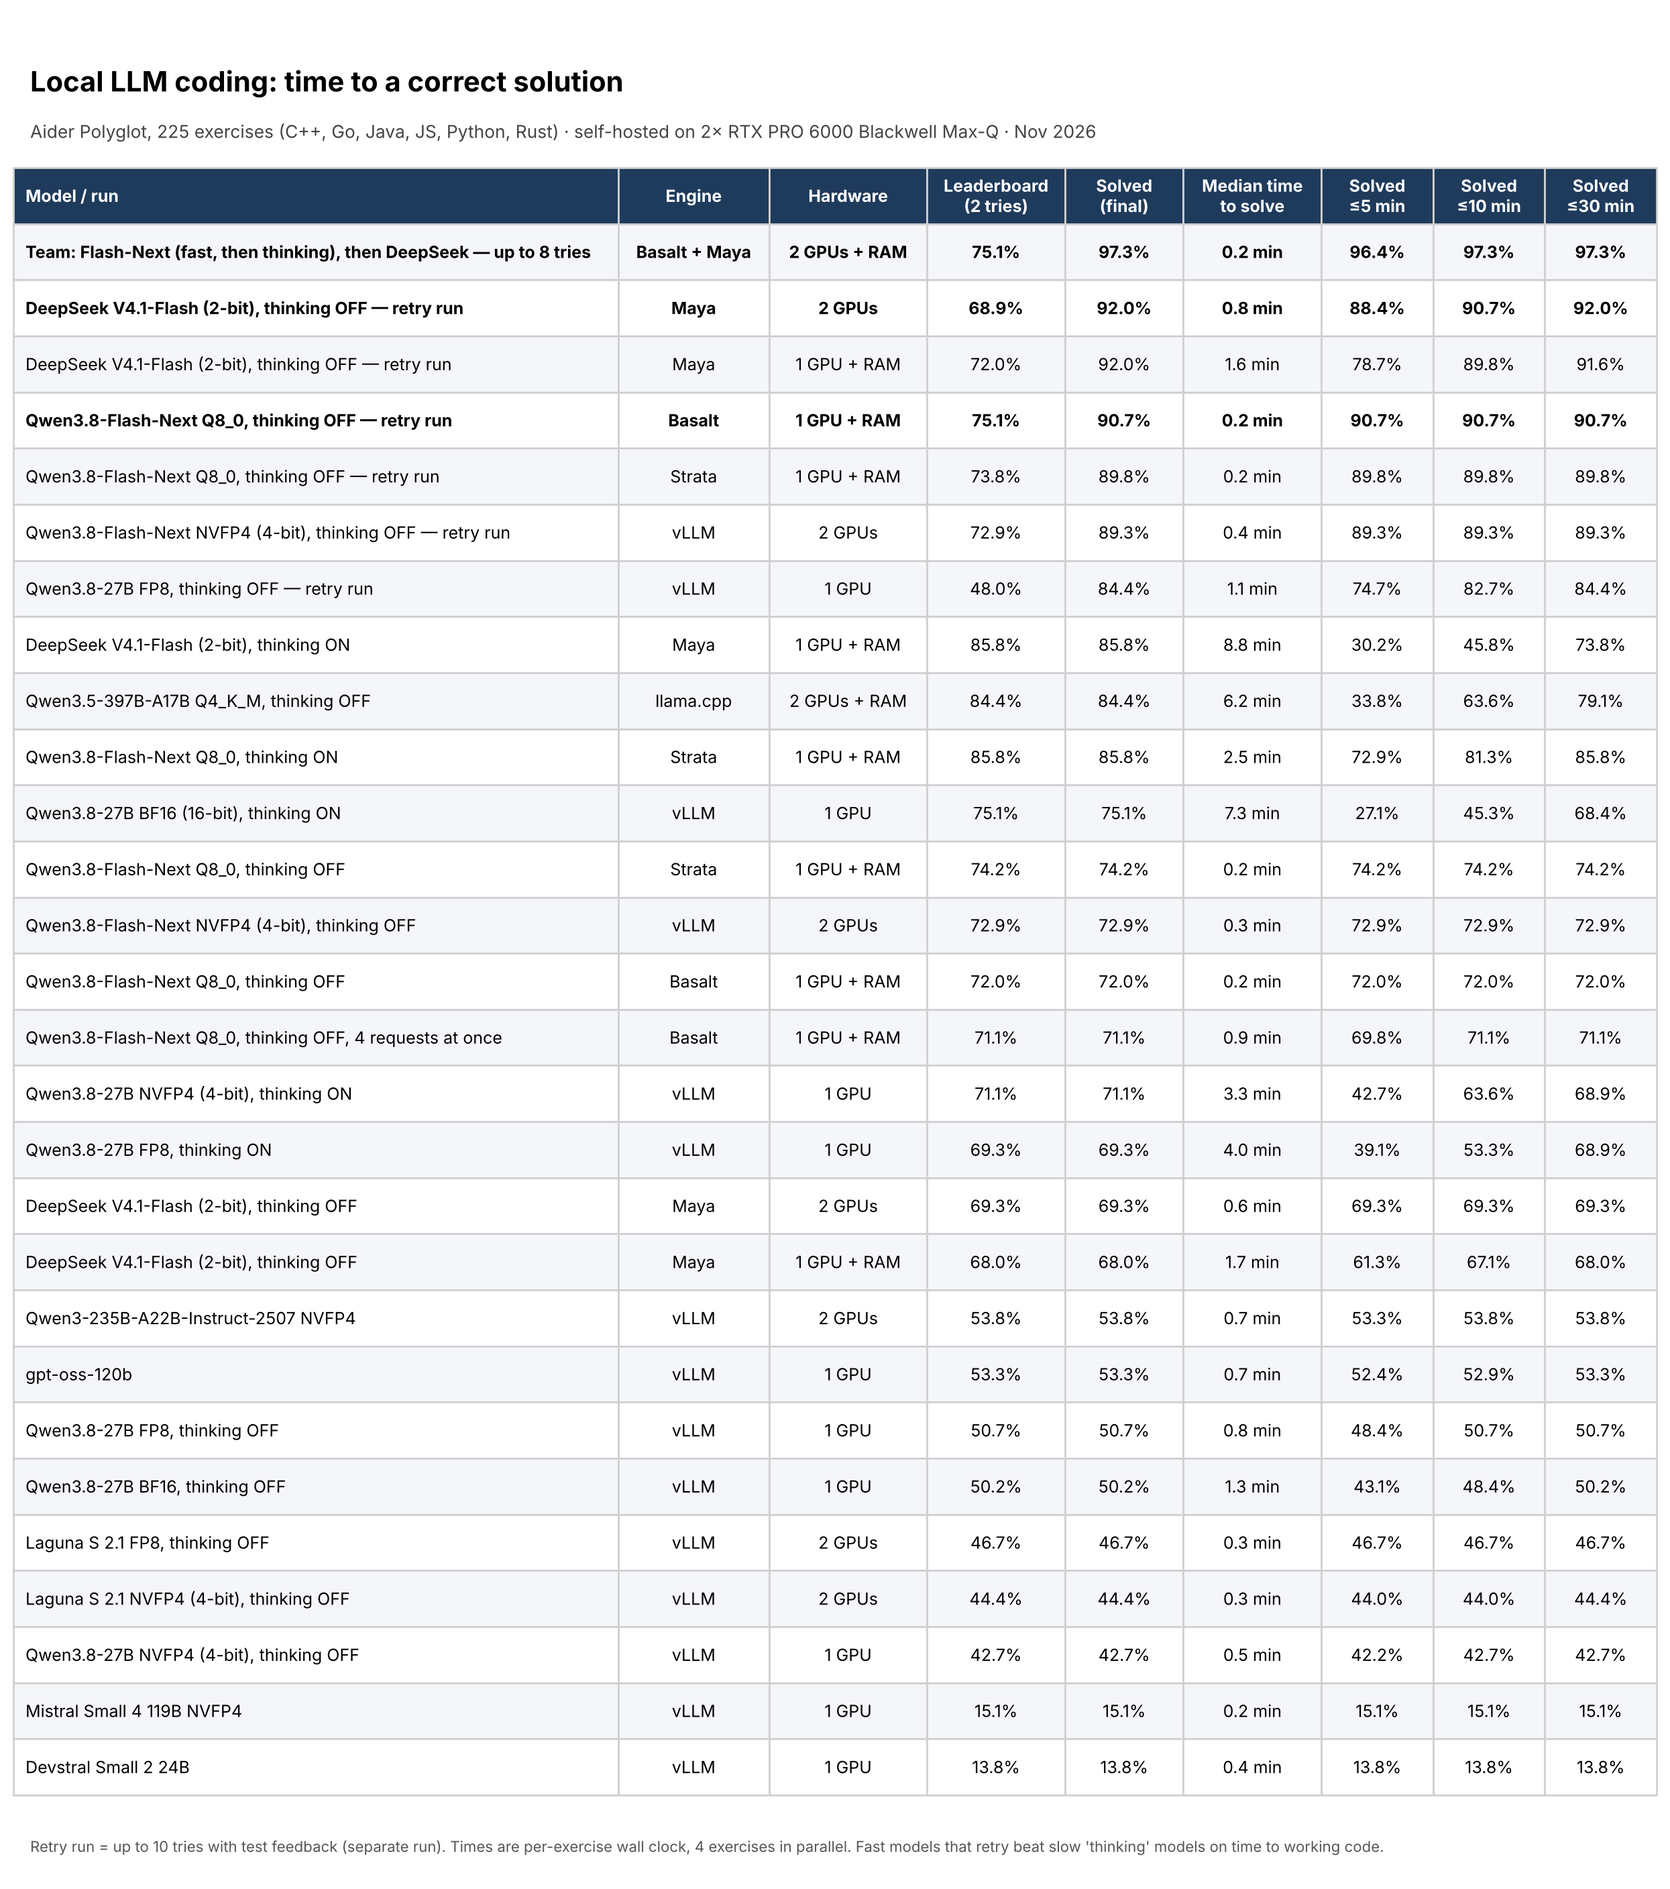
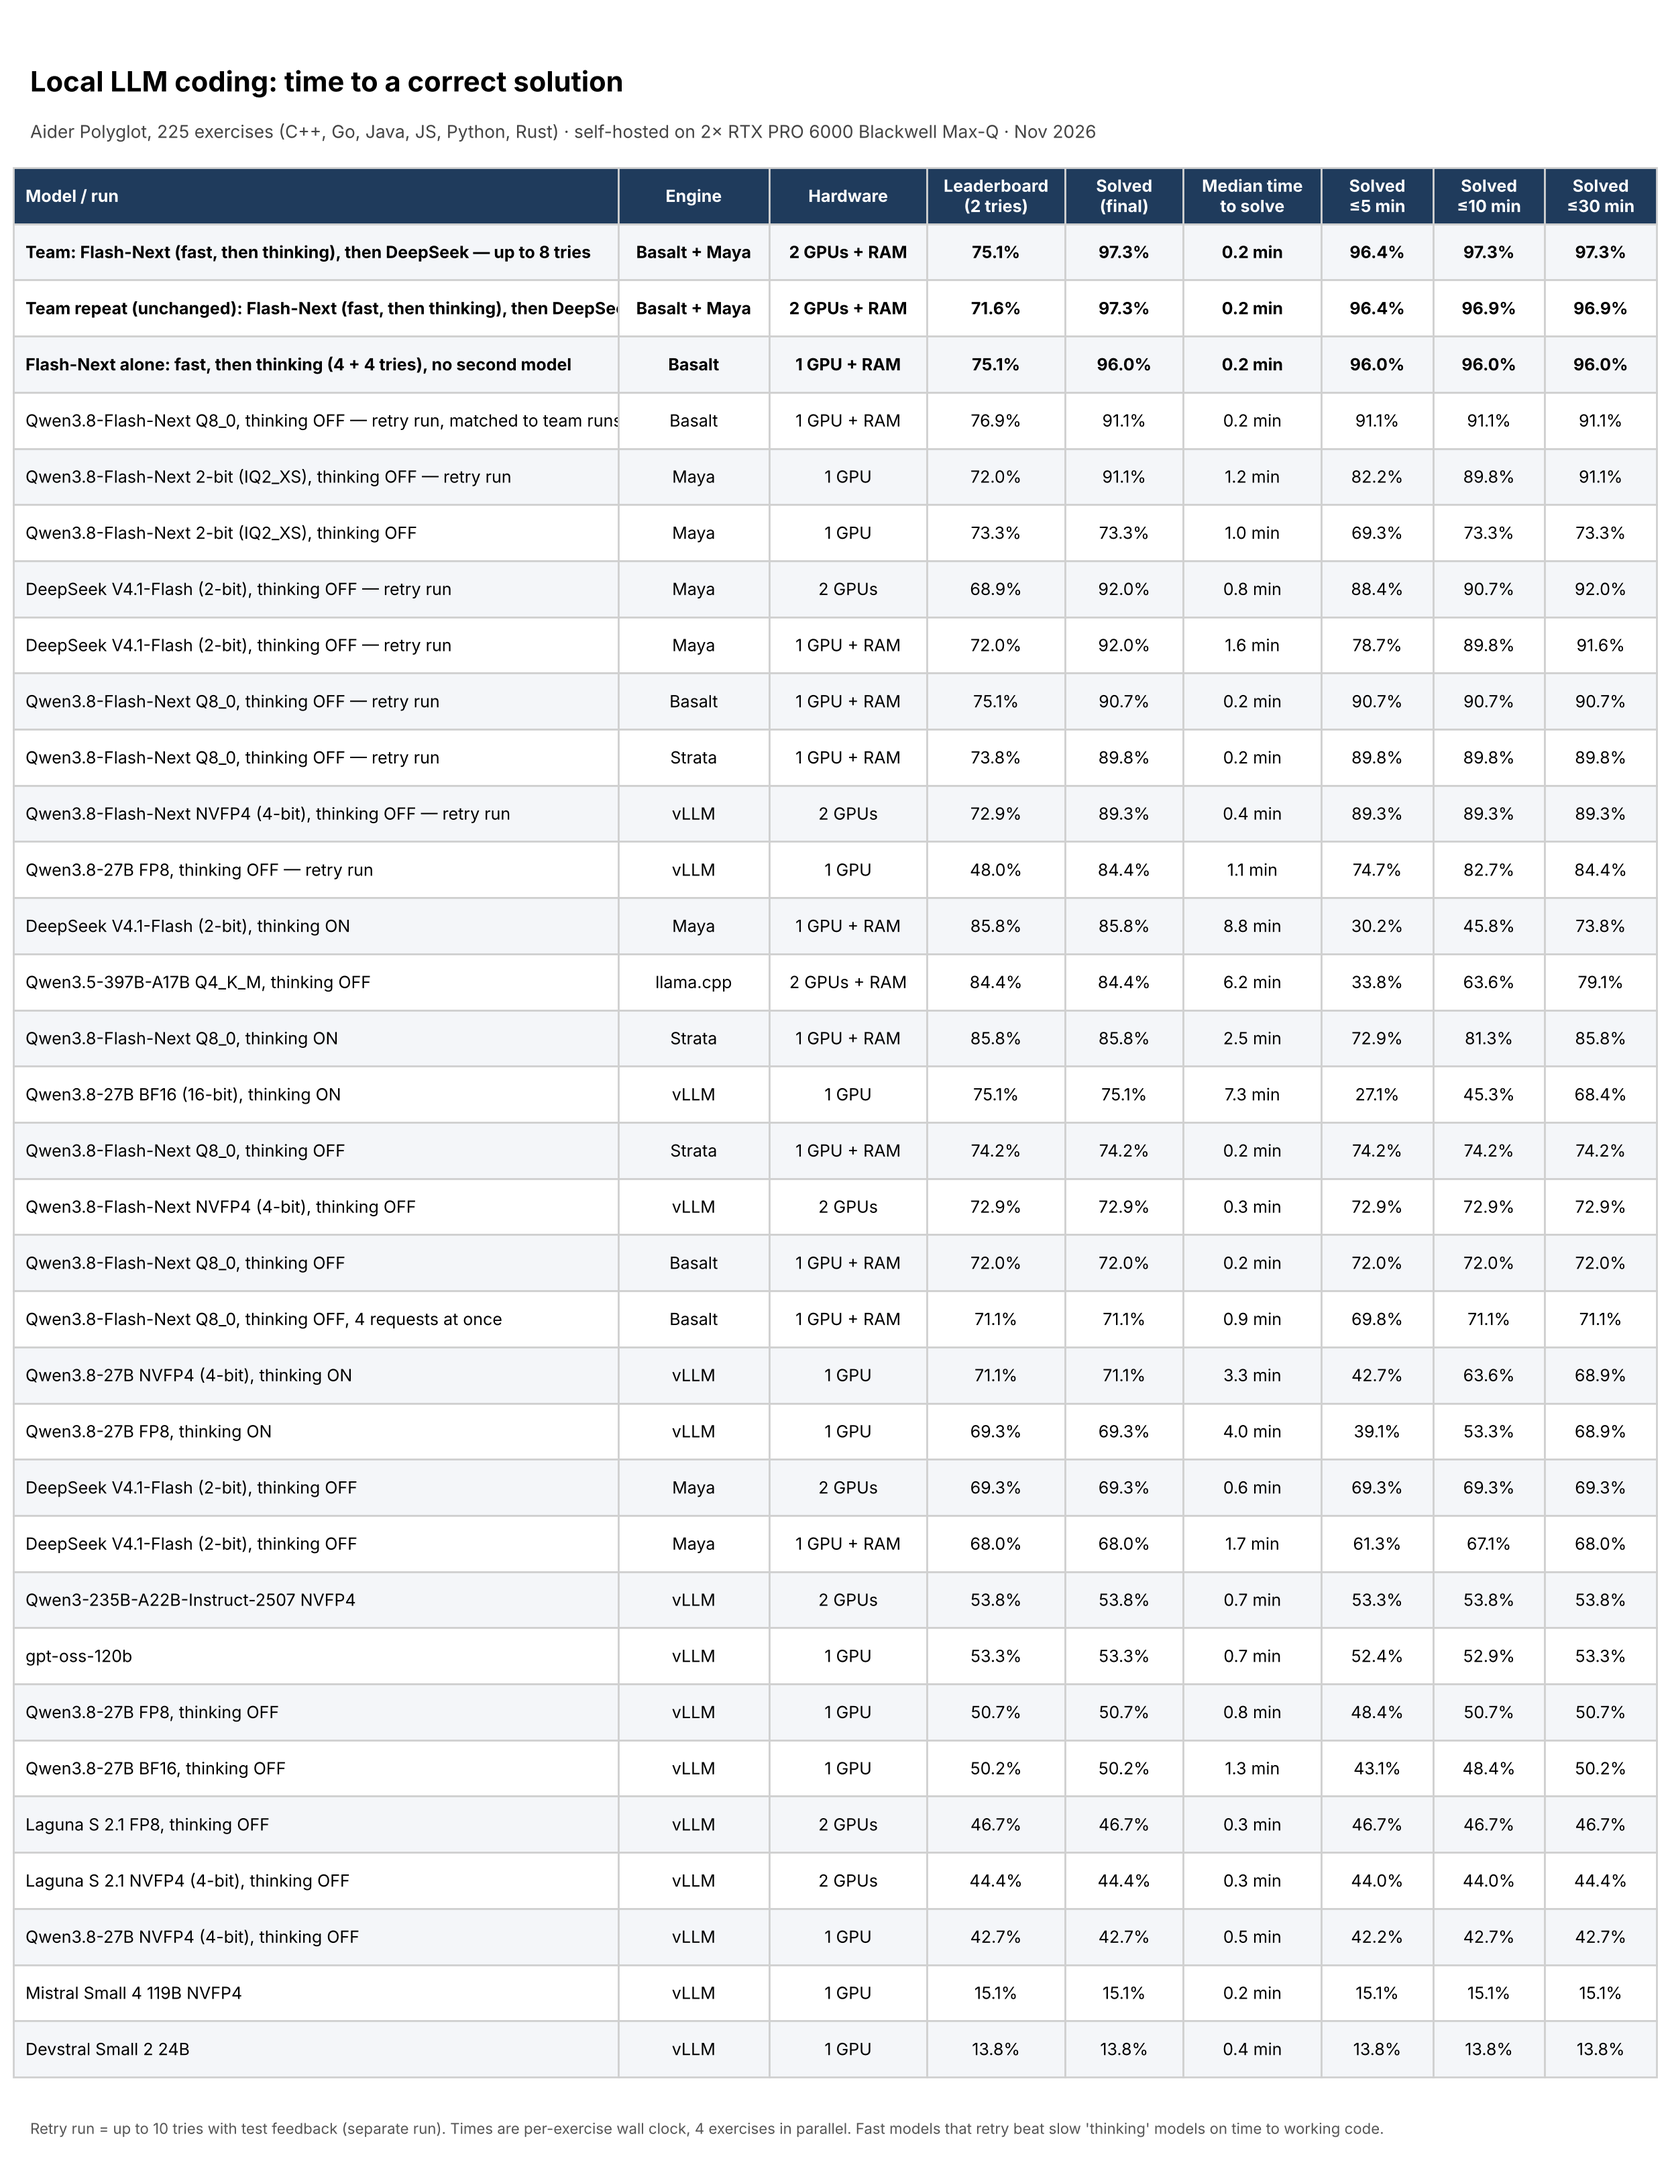
Add matched baseline (205), no-second-model run (216), team repeat row, Maya 2-bit runs; paired tests
Claude-Session: https://claude.ai/code/session_018R7iyJnoVuwkx4FCCYAWj6

diff --git a/articles/stop-optimizing-a-model.md b/articles/stop-optimizing-a-model.md
@@ -2,7 +2,7 @@
 
 *Brian K. Hudes, MD · AiMOS Systems · 24 November 2026*
 
-*Preliminary. Two full runs of the cascade (the second an unchanged repeat, added 24 November). The matched baselines are listed at the end. Technical companion to "Stop Optimizing a Model. Solve the Problem."*
+*Preliminary. Two full runs of the cascade (the second an unchanged repeat, added 24 November). A matched single-model baseline and a run without the second model were added the same day (see Matched baseline and ablation). Technical companion to "Stop Optimizing a Model. Solve the Problem."*
 
 ## Summary
 
@@ -137,6 +137,46 @@ What held and what did not:
 - **The second thinking try did not hold.** It solved 7 of 15 in run 1 and 2 of 13 in the repeat. The first thinking try carries most of the benefit.
 - **DeepSeek's share rose from 2 to 5.** Thinking mode plus the second model solved 22 in run 1 and 19 in the repeat, but the split between them moved. The evidence for a separate benefit from the second model is still thin; the run without DeepSeek, now in progress, addresses it.
 
+## Matched baseline and ablation
+
+Two further runs, both with the cascade's exact settings (chat-history summaries off, 1 thread, same harness, same Basalt server):
+
+- **Matched baseline:** Flash-Next alone, thinking off, up to 10 tries.
+- **No second model:** Flash-Next with four fast tries, then four thinking tries. DeepSeek is not used.
+
+| Measure | Cascade, run 1 | Cascade, run 2 | No second model (4 fast + 4 thinking) | Matched baseline (10 fast) |
+|---|---|---|---|---|
+| Solved | 219 (97.3%) | 219 (97.3%) | 216 (96.0%) | 205 (91.1%) |
+| Solved within 2 tries | 75.1% | 71.6% | 75.1% | 76.9% |
+| Median time to solve | 11.5 s | 12.8 s | 10.9 s | 10.3 s |
+| Mean / 90th percentile | 32.1 / 81.6 s | 39.8 / 56.9 s | 27.0 / 68.4 s | 17.5 / 37.0 s |
+| Wall clock | 3 h 39 min | 3 h 26 min | 2 h 33 min | 2 h 07 min |
+| GPUs used | 2 | 2 | 1 | 1 |
+
+Solved at each try:
+
+| Run | 1 | 2 | 3 | 4 | 5 | 6 | 7 | 8 | 9-10 |
+|---|---|---|---|---|---|---|---|---|---|
+| Matched baseline (all fast) | 90 | 83 | 23 | 2 | 4 | 2 | 0 | 1 | 0 |
+| No second model (thinking from try 5) | 85 | 84 | 22 | 10 | 9 | 5 | 1 | 0 | - |
+
+Paired per-exercise outcomes (exact McNemar test on the discordant pairs):
+
+| Comparison | Solved only by first | Solved only by second | p |
+|---|---|---|---|
+| Cascade run 1 vs matched baseline | 14 | 0 | 0.0001 |
+| Cascade run 2 vs matched baseline | 15 | 1 | 0.0005 |
+| No second model vs matched baseline | 15 | 4 | 0.019 |
+| Cascade run 1 vs no second model | 5 | 2 | 0.45 |
+| Cascade run 2 vs no second model | 6 | 3 | 0.51 |
+
+What this settles and what it does not:
+
+- **The gain survives matched settings.** With identical settings the single model solved 205 and the cascade 219 in both runs. After four fast tries the baseline had 198 solved and 27 open; six more fast tries solved 7 of them. In the no-second-model run, 201 were solved after four fast tries and four thinking tries solved 15 of the remaining 24.
+- **The cascade is not faster on the typical exercise.** The matched baseline has the lowest median (10.3 s). Escalation buys solve rate, at the cost of a longer tail and a longer run.
+- **Most of the gain needs only one model.** Switching Flash-Next to thinking mode, with no second model and one GPU, reached 216. The two cascade runs reached 219. The paired difference between them (5 vs 2, and 6 vs 3) is not distinguishable from run-to-run variation, which changed 4 outcomes between two identical cascade runs.
+- **A second model may still add a little.** Both cascade runs finished 3 above the single-model run, and DeepSeek solved 2 and 5 exercises that had survived six attempts. Three runs are not enough to tell a small real effect from noise. It costs a second GPU and about an hour per run.
+
 ## Where the gain comes from
 
 **Fast retries stop paying.** The single-model retry runs show what further fast tries buy. In the vLLM run of the same model (`until10-qfn-vllm-nvfp4-diff-nothink`, 4-bit, same accuracy within noise), 196 exercises were solved after four tries. Tries 5 to 10 added 5 more, out of 29 still open. In the cascade, 197 were solved after four tries, and two reasoning tries added 20 out of 28.
@@ -162,7 +202,7 @@ Aggregate scores are stable while individual exercises are not. First-two-try sc
 
 ## Confounds
 
-- **Chat-history summaries.** The cascade ran with aider's summaries off. The single-model retry runs had them on. With the benchmark's default (`max_chat_history_tokens` = 1024), aider sends a summary request after nearly every coder reply, about half of all requests and 26% of prompt tokens. Turning them off, in a paired test on the same engine, cut wall clock by 29% (1 h 54 min to 1 h 21 min) and median time to solve by 27% (13.9 s to 10.1 s) with the same solve rate (74.2% both). So the 11.5 s versus 13.6 s median difference should not be credited to the cascade. Whether summaries change the solve rate over 10 tries has not been measured.
+- **Chat-history summaries (resolved for the matched baseline).** The matched baseline above has summaries off like the cascade. The earlier single-model retry runs in the Results table had them on, which is why they are no longer the main comparison. For reference: the cascade ran with aider's summaries off. The earlier single-model retry runs had them on. With the benchmark's default (`max_chat_history_tokens` = 1024), aider sends a summary request after nearly every coder reply, about half of all requests and 26% of prompt tokens. Turning them off, in a paired test on the same engine, cut wall clock by 29% (1 h 54 min to 1 h 21 min) and median time to solve by 27% (13.9 s to 10.1 s) with the same solve rate (74.2% both). So the 11.5 s versus 13.6 s median difference should not be credited to the cascade. Whether summaries change the solve rate over 10 tries has not been measured.
 - **Try caps differ.** 8 versus 10. This favors the baselines.
 - **The DeepSeek baseline had both GPUs.** In the cascade it has one. Its 1-GPU plus RAM retry run reached the same 92.0% with a median of 1.6 min.
 - **One thread versus four.** The cascade and the Flash-Next baseline ran one exercise at a time. The DeepSeek baseline ran four sessions, so its times are under load.
@@ -197,8 +237,8 @@ The nearer comparison is with systems that iterate until tests pass. The highest
 ## Next runs
 
 1. Done: the cascade was repeated unchanged (see Replication).
-2. Flash-Next alone, 10 tries, summaries off, 1 thread: the matched baseline.
-3. The cascade without DeepSeek (four fast, four thinking), to isolate what the second model adds.
+2. Done: the matched baseline (see Matched baseline and ablation).
+3. Done: the cascade without DeepSeek (see Matched baseline and ablation). More repeats are needed to tell whether the second model's small apparent contribution is real.
 4. A time budget on the reasoning stages, to recover the wall clock spent on unsolved exercises.
 5. Earlier escalation (two fast tries, then thinking), since the attempt success rate has already fallen to 37.5% by try 3.
 6. Other line-ups and other hardware.

diff --git a/RESULTS.md b/RESULTS.md
@@ -230,6 +230,24 @@ Reading this fairly:
 - Write-up: [articles/stop-optimizing-a-model.md](articles/stop-optimizing-a-model.md).
 - Folder: `2026-11-23-23-26-13--full-team-qfn-think-ds-nosum-diff-1123-2325`.
 
+## Matched baseline, no-second-model run and Maya 2-bit Flash-Next (2026-11-24)
+
+All four ran unattended after the team repeat. No infrastructure errors.
+
+| Run | Engine / hardware | Solved | 2-try | Median s | Mean s | 90th pct s | Wall clock | Solved at try |
+|---|---|---|---|---|---|---|---|---|
+| Flash-Next Q8_0 alone, thinking OFF, up to 10 tries, summaries off, 1 thread (`full-team-qfn-nothink10-nosum-diff-1124-0809`) | Basalt, GPU 0 + RAM | 205 (91.1%) | 76.9% | 10.3 | 17.5 | 37.0 | 2h07m | 90, 83, 23, 2, 4, 2, 0, 1 |
+| Flash-Next Q8_0, 4 fast + 4 thinking tries, no second model (`full-team-qfn-think-only-nosum-diff-1124-1017`) | Basalt, GPU 0 + RAM | 216 (96.0%) | 75.1% | 10.9 | 27.0 | 68.4 | 2h33m | 85, 84, 22, 10 then 9, 5, 1, 0 |
+| Flash-Next 2-bit UD-IQ2_XS, thinking OFF, standard 2 tries, 4 threads (`full-qfn-maya-iq2xs-g1-diff-nothink-1124-0808`) | Maya, GPU 1 | 165 (73.3%) | 73.3% | 62.4 | 82.9 | 169.1 | 1h33m | - |
+| Flash-Next 2-bit UD-IQ2_XS, thinking OFF, up to 10 tries, 4 threads (`until10-qfn-maya-iq2xs-g1-diff-nothink-1124-0942`) | Maya, GPU 1 | 205 (91.1%) | 72.0% | 71.9 | 116.0 | 287.2 | 2h37m | 78, 84, 31, 7, 3, 1, 0, 1 |
+
+- Matched baseline vs the team runs: 205 vs 219 and 219 with identical settings. Paired: the team solved 14 (run 1) and 15 (repeat) exercises the baseline did not; the baseline solved 0 and 1 the team did not.
+- No second model vs the team runs: 216 vs 219. Paired differences 5 vs 2 and 6 vs 3, within the variation between two identical team runs (4 outcomes changed).
+- Unsolved in the matched baseline (20): cpp/circular-buffer, cpp/grade-school, cpp/kindergarten-garden, cpp/meetup, cpp/spiral-matrix, go/connect, go/robot-simulator, java/bowling, java/connect, java/custom-set, java/hangman, java/rational-numbers, java/satellite, java/zipper, javascript/affine-cipher, javascript/grade-school, javascript/react, javascript/resistor-color-trio, python/bowling, rust/forth.
+- Unsolved without the second model (9): cpp/meetup, cpp/queen-attack, cpp/spiral-matrix, go/paasio, go/robot-simulator, java/hangman, java/rational-numbers, java/zebra-puzzle, javascript/go-counting.
+- Never solved in any of the four team-harness runs: cpp/spiral-matrix, go/robot-simulator, java/rational-numbers.
+- Maya 2-bit: the smoke test before these runs passed only 2 of 5, but the full runs match the 8-bit model's solve rate (73.3% in 2 tries; 91.1% in 10). They ran with the standard chat summaries and 4 threads on one GPU, so the times (median about 1 min) are not comparable with the 1-thread Basalt runs.
+
 ## Qwen3.8-27B BF16 (16-bit) — thinking ON (2026-11-22)
 
 - Setup: Qwen3.8-27B BF16 (full precision), vLLM, GPU 1 only, thinking ON, Aider Polyglot 225, diff format, 2 tries. Run folder `2026-11-22-02-58-31--full-qwen38-bf16-diff-thinking` (run name `full-qwen38-bf16-diff-thinking`).

diff --git a/README.md b/README.md
@@ -14,6 +14,11 @@ What developers actually care about is how fast they get working code, not how m
 | Run | Engine | Hardware | Leaderboard score (2 tries) | Solved (final) | Median time to solve | Solved within 5 min | within 10 min | within 30 min |
 |---|---|---|---|---|---|---|---|---|
 | **Team: Qwen3.8-Flash-Next (fast, then thinking), then DeepSeek V4.1-Flash — up to 8 tries** | Basalt + Maya | 2 GPUs + RAM | 75.1% | **97.3%** | 0.2 min | 96.4% | 97.3% | 97.3% |
+| **Team repeat (unchanged): Flash-Next (fast, then thinking), then DeepSeek — up to 8 tries** | Basalt + Maya | 2 GPUs + RAM | 71.6% | 97.3% | 0.2 min | 96.4% | 96.9% | 96.9% |
+| **Flash-Next alone, fast then thinking (4 + 4 tries), no second model** | Basalt | 1 GPU + RAM | 75.1% | 96.0% | 0.2 min | 96.0% | 96.0% | 96.0% |
+| Qwen3.8-Flash-Next Q8_0, thinking OFF — retry run, matched to the team runs (summaries off) | Basalt | 1 GPU + RAM | 76.9% | 91.1% | 0.2 min | 91.1% | 91.1% | 91.1% |
+| Qwen3.8-Flash-Next 2-bit (IQ2_XS), thinking OFF — retry run | Maya | 1 GPU | 72.0% | 91.1% | 1.2 min | 82.2% | 89.8% | 91.1% |
+| Qwen3.8-Flash-Next 2-bit (IQ2_XS), thinking OFF | Maya | 1 GPU | 73.3% | 73.3% | 1.0 min | 69.3% | 73.3% | 73.3% |
 | **DeepSeek V4.1-Flash (2-bit), thinking OFF — retry run** | Maya | 2 GPUs | 68.9% | 92.0% | 0.8 min | 88.4% | 90.7% | 92.0% |
 | DeepSeek V4.1-Flash (2-bit), thinking OFF — retry run | Maya | 1 GPU + RAM | 72.0% | 92.0% | 1.6 min | 78.7% | 89.8% | 91.6% |
 | **Qwen3.8-Flash-Next Q8_0, thinking OFF — retry run** | Basalt | 1 GPU + RAM | 75.1% | 90.7% | 0.2 min | 90.7% | 90.7% | 90.7% |
